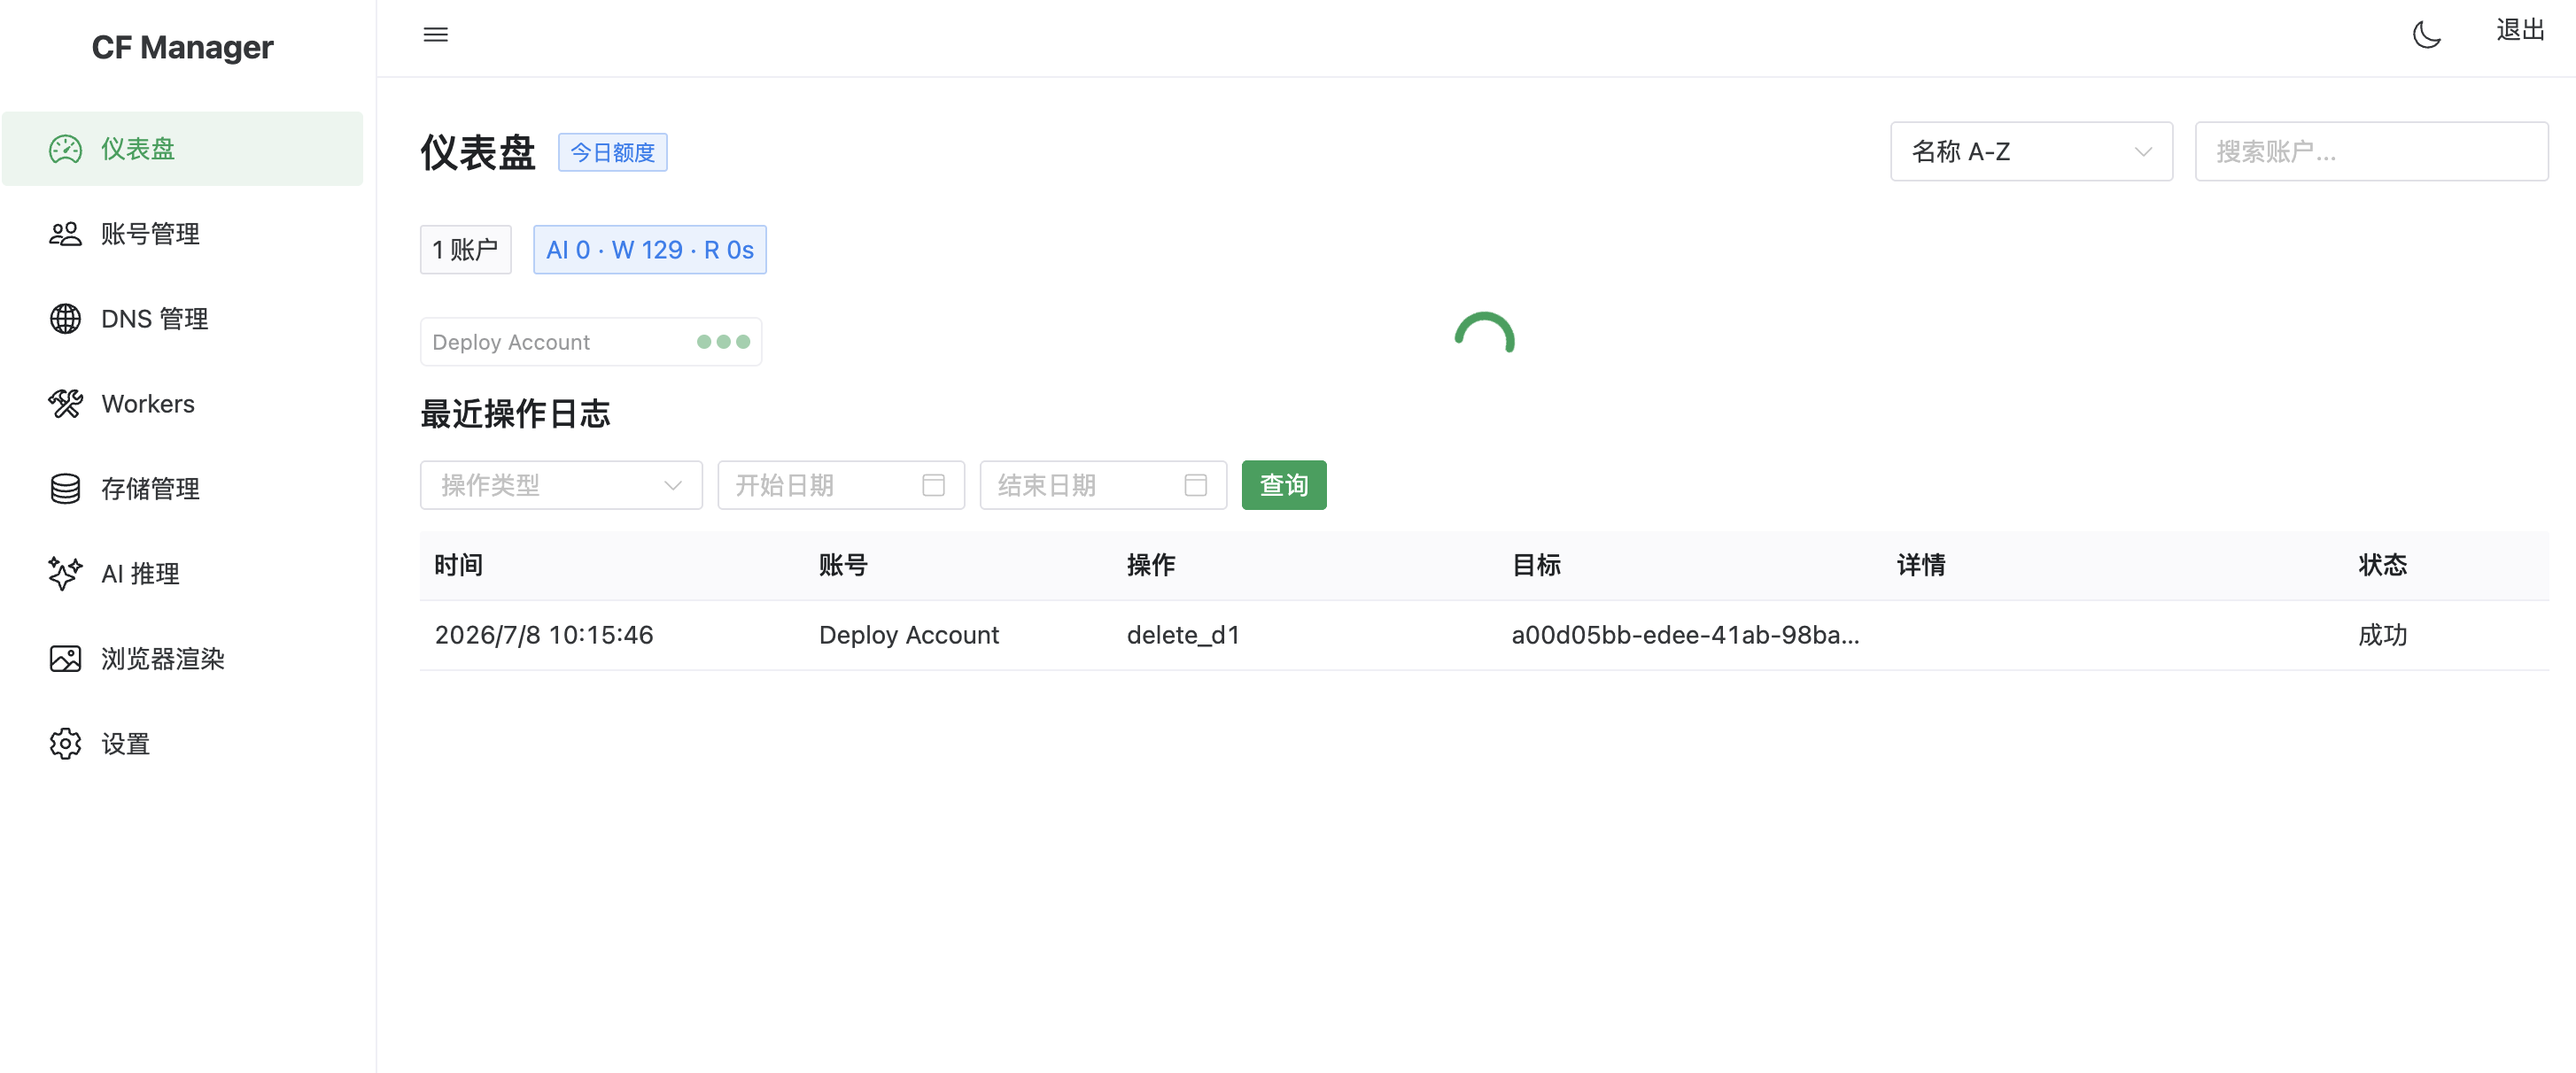
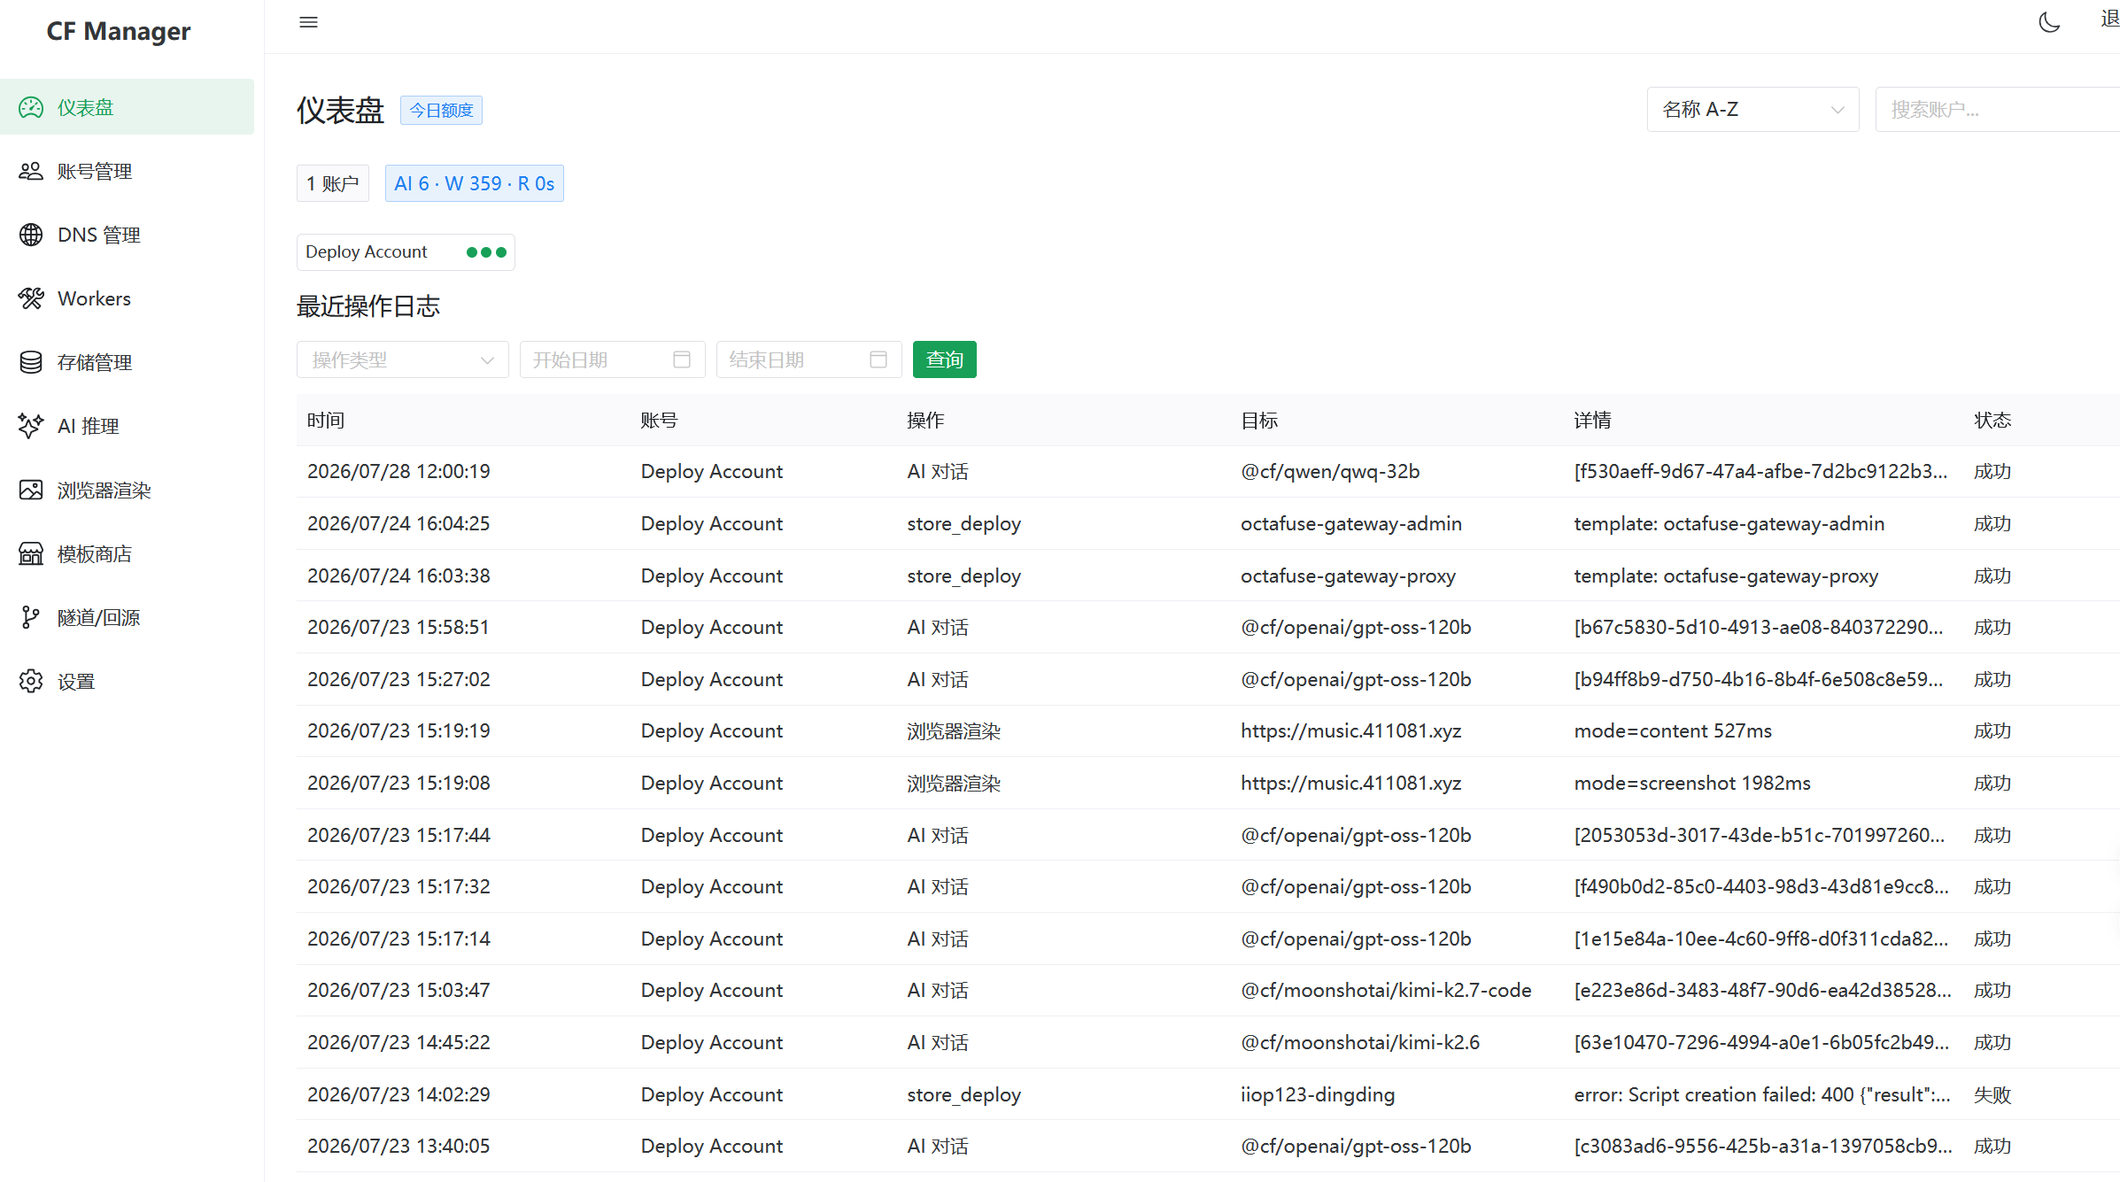
chore: 发布 v1.4.1 — 账户级独立代理 + 审计日志筛选

diff --git a/CHANGELOG.md b/CHANGELOG.md
@@ -1,5 +1,17 @@
 # Changelog
 
+## [1.4.1] - 2026-07-27
+
+### 🚀 新特性
+
+- **账户级独立代理**：支持为每个账号分配独立代理 URL 与启用开关，代理优先级为「账户代理(启用) > 全局代理 > 环境变量」；全局开关仅控制全局默认代理，账户代理独立生效、互不影响。双后端（Express/Hono）对称实现，D1/SQLite 迁移新增 `proxy_url` / `proxy_enabled` 列。
+- **审计日志筛选**：支持按操作类型和日期范围筛选审计日志，便于事后追溯与排查。
+
+### 🎨 前端
+
+- **账户批量操作**：账户列表支持批量勾选、批量删除、批量设置代理。
+- **账户设置优化**：新增账户代理独立弹窗；操作列收纳为「更多」下拉，左右固定列适配移动端窄屏。
+
 ## [1.4.0] - 2026-07-24
 
 ### 🚀 新特性
